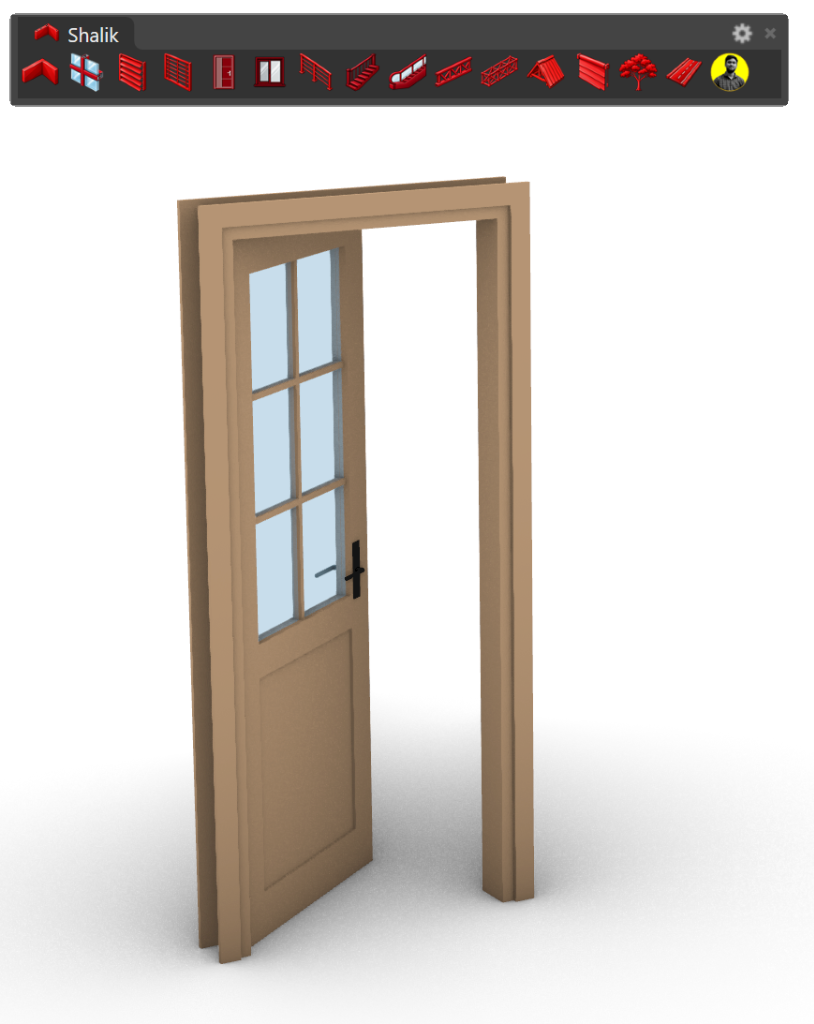
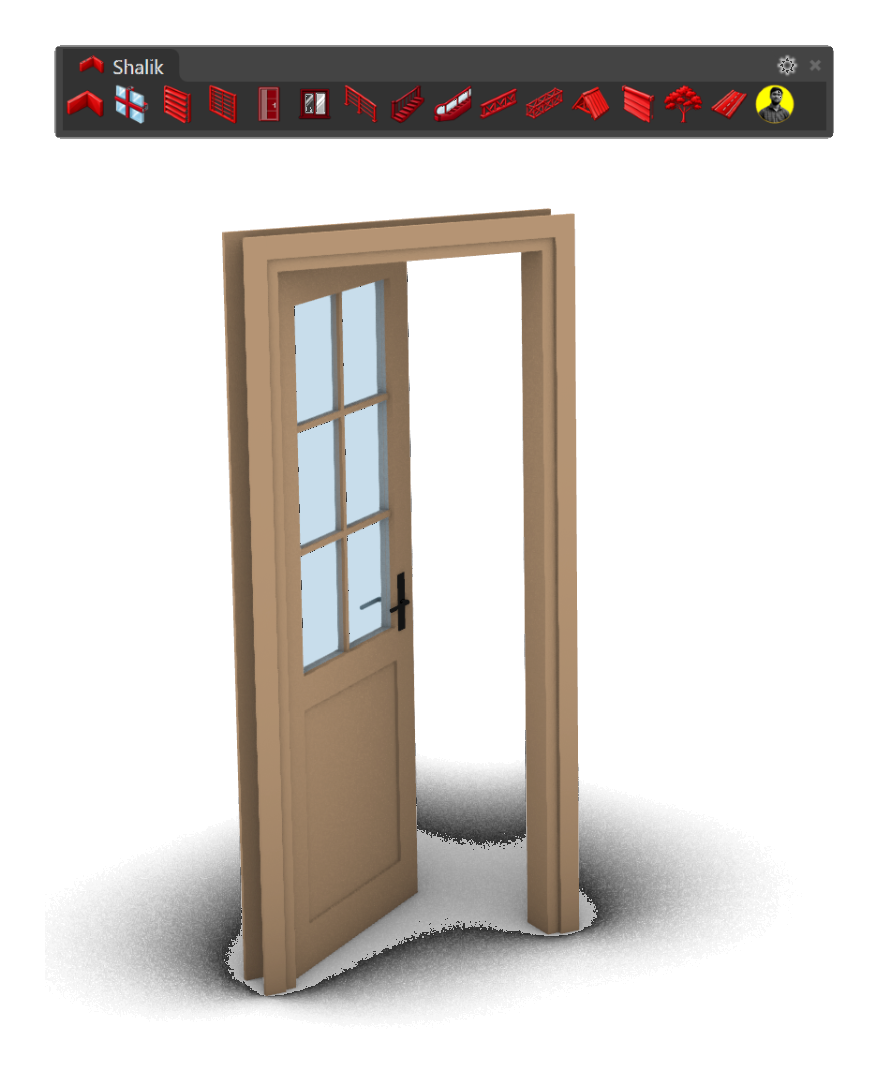
Make all demo images and showcase cards 100% seamless with transparent backgrounds and unified white aesthetic

Changed region(s): [[0.0, 0.0, 0.9828, 0.9688]]

diff --git a/docs/assets/style.css b/docs/assets/style.css
@@ -413,51 +413,52 @@
             margin-bottom: 80px;
         }
         .showcase-card {
-            background: var(--bg-surface);
+            background: #ffffff !important;
             border: 1px solid var(--border-line);
             border-radius: 12px;
             overflow: hidden;
             transition: all 0.25s ease;
-            box-shadow: 0 10px 30px rgba(0,0,0,0.5);
+            box-shadow: 0 4px 20px rgba(0,0,0,0.04);
             display: flex;
             flex-direction: column;
         }
         .showcase-card:hover {
-            border-color: var(--border-line-strong);
+            border-color: var(--ink-primary);
             transform: translateY(-4px);
-            box-shadow: 0 16px 40px rgba(0,0,0,0.7);
+            box-shadow: 0 12px 32px rgba(0,0,0,0.08);
         }
         .showcase-header {
-            padding: 14px 20px;
-            background: var(--bg-surface-elevated);
-            border-bottom: 1px solid var(--border-line);
+            padding: 16px 24px 6px 24px;
+            background: #ffffff !important;
+            border-bottom: none !important;
             display: flex;
             align-items: center;
             justify-content: space-between;
         }
         .showcase-header .hud-label { font-size: 0.7rem; }
         .showcase-canvas-wrap {
-            background: #ffffff;
-            padding: 30px 20px;
+            background: #ffffff !important;
+            padding: 16px 24px;
             display: flex;
             align-items: center;
             justify-content: center;
-            border-bottom: 1px solid var(--border-line);
-            min-height: 480px;
+            border-bottom: none !important;
+            min-height: 440px;
         }
         .showcase-canvas-wrap img {
             width: 100%;
-            max-height: 500px;
-            object-fit: contain;
+            max-height: 460px;
+            object-fit: contain !important;
             display: block;
-            transition: transform 0.3s ease;
+            mix-blend-mode: multiply !important;
+            transition: transform 0.35s cubic-bezier(0.16, 1, 0.3, 1);
         }
         .showcase-card:hover .showcase-canvas-wrap img {
-            transform: scale(1.02);
+            transform: scale(1.03);
         }
         .showcase-footer {
-            padding: 24px;
-            background: var(--bg-surface);
+            padding: 8px 24px 28px 24px;
+            background: #ffffff !important;
             flex-grow: 1;
         }
         .showcase-footer h3 {
@@ -1624,6 +1625,7 @@
             transition: transform 0.3s ease;
             margin: 0 auto;
             display: block;
+            mix-blend-mode: multiply !important;
         }
         .slider-slide-item img:hover {
             transform: scale(1.02);
@@ -1653,6 +1655,7 @@
             width: 100%;
             height: 100%;
             object-fit: contain;
+            mix-blend-mode: multiply !important;
         }
         .split-image-overlay {
             position: absolute;

diff --git a/docs/index.html b/docs/index.html
@@ -74,7 +74,7 @@
     </script>
 
     <!-- Shared External Obsidian Stylesheet (Cache-Busted) -->
-    <link rel="stylesheet" href="assets/style.css?v=20261026-removeinspect">
+    <link rel="stylesheet" href="assets/style.css?v=20261026-seamless">
     <style>
         /* Permanently remove "Move mouse to inspect" floating pill */
         .zoom-indicator-pill {
@@ -237,6 +237,28 @@
             color: #e53935 !important;
             opacity: 1 !important;
             transform: translate3d(-3px, var(--cur-y, 0px), 0) !important;
+        }
+        /* 100% Seamless Architectural Showcase Cards & Viewports */
+        .showcase-card,
+        .showcase-header,
+        .showcase-canvas-wrap,
+        .showcase-footer {
+            background: #ffffff !important;
+            border-bottom: none !important;
+        }
+        .showcase-card {
+            border: 1px solid var(--border-line) !important;
+            box-shadow: 0 4px 20px rgba(0, 0, 0, 0.04) !important;
+        }
+        .showcase-card:hover {
+            border-color: var(--ink-primary) !important;
+            box-shadow: 0 12px 32px rgba(0, 0, 0, 0.08) !important;
+        }
+        .showcase-canvas-wrap img,
+        .slider-slide-item img,
+        .split-image-layer img {
+            object-fit: contain !important;
+            mix-blend-mode: multiply !important;
         }
     </style>
 </head>

diff --git a/docs/buy.html b/docs/buy.html
@@ -25,7 +25,7 @@
     <link href="https://fonts.googleapis.com/css2?family=Inter:wght@300;400;500;600;700;800&family=JetBrains+Mono:wght@400;500;600&display=swap" rel="stylesheet">
 
     <!-- External Shared Design System Stylesheet (Cache-Busted) -->
-    <link rel="stylesheet" href="assets/style.css?v=20261026-removeinspect">
+    <link rel="stylesheet" href="assets/style.css?v=20261026-seamless">
     <style>
         /* Force-disable any background grid or pseudo-element overlays */
         body::before, body::after, html::before, html::after {

diff --git a/docs/tools.html b/docs/tools.html
@@ -25,7 +25,7 @@
     <link href="https://fonts.googleapis.com/css2?family=Inter:wght@300;400;500;600;700;800&family=JetBrains+Mono:wght@400;500;600&display=swap" rel="stylesheet">
 
     <!-- External Shared Design System Stylesheet (Cache-Busted) -->
-    <link rel="stylesheet" href="assets/style.css?v=20261026-removeinspect">
+    <link rel="stylesheet" href="assets/style.css?v=20261026-seamless">
 
     <style>
         /* Force-disable any background grid or pseudo-element overlays */
